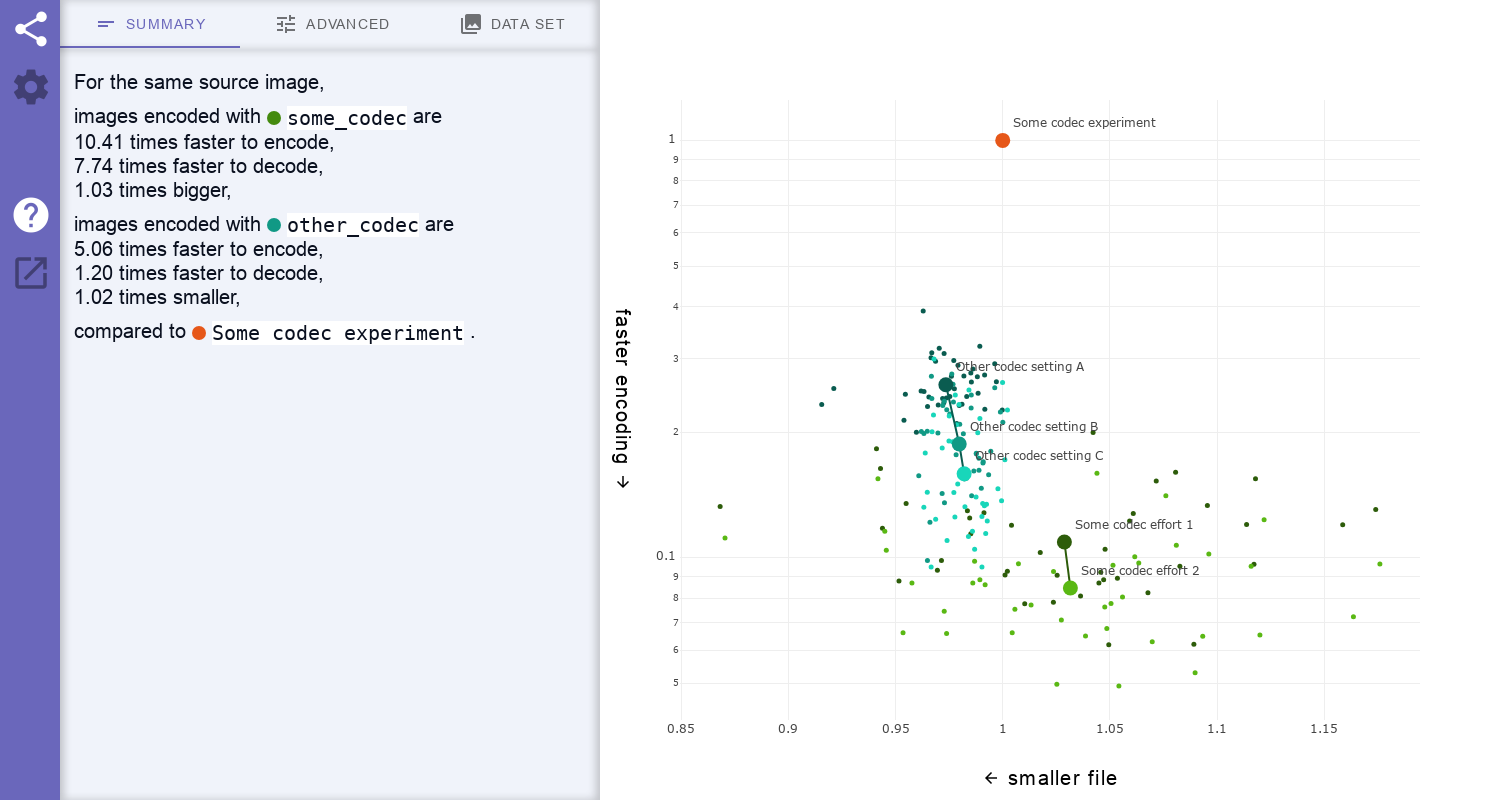
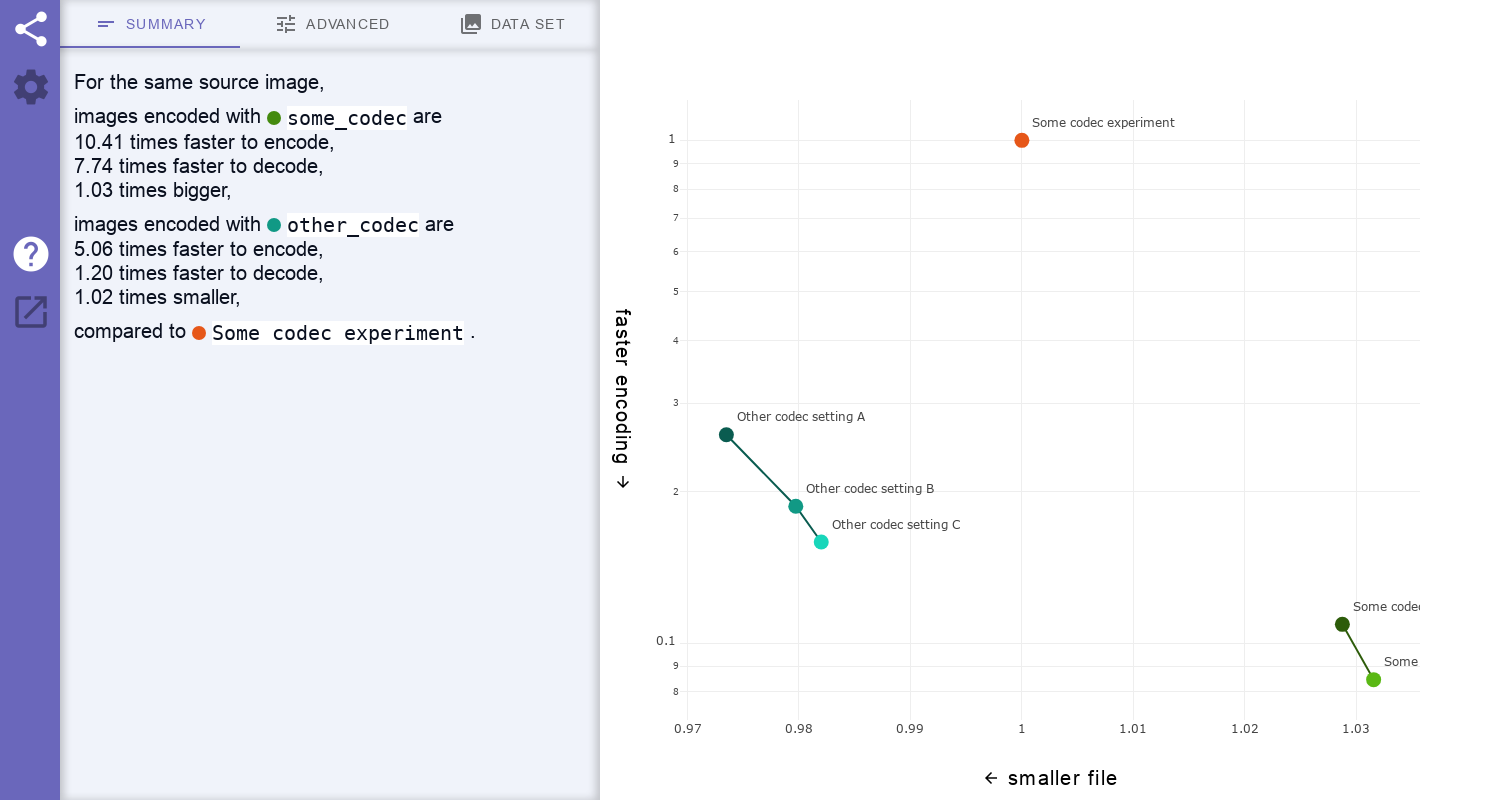
Codec-Compare version 0.2.3 (#13)

diff --git a/src/settings_ui.ts b/src/settings_ui.ts
@@ -21,7 +21,7 @@ import './filters_ui';
 import {css, html, LitElement} from 'lit';
 import {customElement, property} from 'lit/decorators.js';
 
-import {dispatch, EventType} from './events';
+import {dispatch, EventType, listen} from './events';
 import {State} from './state';
 
 /** Pop-up settings menu. */
@@ -29,31 +29,62 @@ import {State} from './state';
 export class SettingsUi extends LitElement {
   @property({attribute: false}) state!: State;
 
+  override firstUpdated() {
+    listen(EventType.SETTINGS_CHANGED, () => {
+      this.requestUpdate();
+    });
+  }
+
   override render() {
     if (!this.state) return html``;
+    const slownessWarning = 'warning: may cause graphical interface slowness';
 
     return html`
         <div class="settingGroup">
-          <span>Hide data points</span>
+          <span title="Hide the matched pairs in the graph">
+            Hide data points
+          </span>
           <mwc-switch ?selected=${this.state.showEachMatch}
             @click=${() => {
       this.state.showEachMatch = !this.state.showEachMatch;
       dispatch(EventType.MATCHER_OR_METRIC_CHANGED);
-      this.requestUpdate();
+      dispatch(EventType.SETTINGS_CHANGED);
     }}>
           </mwc-switch>
-          <span>Show data points</span>
+          <span title="Show each matched pair as a small dot in the graph (${
+        slownessWarning})">
+            Show data points
+          </span>
         </div>
         <div class="settingGroup">
-          <span>Arithmetic mean</span>
+          <span title="Aggregate the metrics using the arithmetic mean of the values of the matched data points">
+            Arithmetic mean
+          </span>
           <mwc-switch ?selected=${this.state.useGeometricMean}
             @click=${() => {
       this.state.useGeometricMean = !this.state.useGeometricMean;
       dispatch(EventType.MATCHER_OR_METRIC_CHANGED);
-      this.requestUpdate();
+      dispatch(EventType.SETTINGS_CHANGED);
     }}>
           </mwc-switch>
-          <span>Geometric mean</span>
+          <span title="Aggregate the metrics using the geometric mean of the ratios of the matched pairs">
+            Geometric mean
+          </span>
+        </div>
+        <div class="settingGroup">
+          <span title="Only display the first rows of the filtered or matched data point tables">
+            Show some rows
+          </span>
+          <mwc-switch ?selected=${this.state.showAllRows}
+            @click=${() => {
+      this.state.showAllRows = !this.state.showAllRows;
+      dispatch(EventType.SETTINGS_CHANGED);
+    }}>
+          </mwc-switch>
+          <span title="Display all rows of the filtered or matched data point tables (${
+        slownessWarning})">
+            Show all rows
+          </span>
         </div>`;
   }
 

diff --git a/src/matches_table_ui.ts b/src/matches_table_ui.ts
@@ -69,7 +69,8 @@ export class MatchesTableUi extends LitElement {
     const cssClass = isNumber ? 'numberCell' : '';
 
     if (isNumber && selectionField.id !== FieldId.WIDTH &&
-        selectionField.id !== FieldId.HEIGHT) {
+        selectionField.id !== FieldId.HEIGHT &&
+        selectionField.id !== FieldId.FRAME_COUNT) {
       const ratio =
           getRatio(selectionValue as number, referenceValue as number);
       return html`<td class="${cssClass}">${getRelativePercent(ratio)}</td>`;
@@ -202,6 +203,23 @@ export class MatchesTableUi extends LitElement {
 
     const numColumns =
         matchers.length + metrics.length + selectionSharedFieldIndices.length;
+    let rows = this.batchSelection.matchedDataPoints.rows;
+    let truncatedRows = html``;
+    if (!this.state.showAllRows && rows.length > 100) {
+      const onDisplayHiddenRow = () => {
+        this.state.showAllRows = true;
+        dispatch(EventType.SETTINGS_CHANGED);
+        this.requestUpdate();
+      };
+      truncatedRows = html`
+        <tr>
+          <td @click=${onDisplayHiddenRow}
+              colspan=${numColumns} class="hiddenRow">
+            ${rows.length - 100} hidden rows. Click to expand.
+          </td>
+        </tr>`;
+      rows = rows.slice(0, 100);
+    }
 
     return html`
       <table>
@@ -209,7 +227,8 @@ export class MatchesTableUi extends LitElement {
         this.renderFirstHeaderRow(
             reference, matchers, metrics, referenceSharedFieldIndices)}
         ${this.renderSecondHeaderRow(reference, matchers, metrics)}
-        ${this.batchSelection.matchedDataPoints.rows.map(renderRow)}
+        ${rows.map(renderRow)}
+        ${truncatedRows}
 
         <tr>
           <th colspan=${numColumns}>Arithmetic means</th>
@@ -288,6 +307,14 @@ export class MatchesTableUi extends LitElement {
     }
     .matchRow:hover {
       background: var(--mdc-theme-surface);
+      cursor: pointer;
+    }
+    .hiddenRow {
+      color: grey;
+      font-style: italic;
+      text-align: center;
+    }
+    .hiddenRow:hover {
       cursor: pointer;
     }
 

diff --git a/src/filtered_images_ui.ts b/src/filtered_images_ui.ts
@@ -21,6 +21,7 @@ import {customElement, property} from 'lit/decorators.js';
 
 import {BatchSelection} from './batch_selection';
 import {Entry} from './entry';
+import {dispatch, EventType} from './events';
 import {State} from './state';
 
 /** Component displaying filtered images in a table. */
@@ -44,6 +45,24 @@ export class FilteredImagesUi extends LitElement {
 
   override render() {
     const batch = this.batchSelection.batch;
+    let rows = batch.rows;
+    let truncatedRows = html``;
+    if (!this.state.showAllRows && rows.length > 100) {
+      const onDisplayHiddenRow = () => {
+        this.state.showAllRows = true;
+        dispatch(EventType.SETTINGS_CHANGED);
+        this.requestUpdate();
+      };
+      truncatedRows = html`
+        <tr>
+          <td @click=${onDisplayHiddenRow}
+              colspan=${batch.fields.length} class="hiddenRow">
+            ${rows.length - 100} hidden rows. Click to expand.
+          </td>
+        </tr>`;
+      rows = rows.slice(0, 100);
+    }
+
     return html`
         <div class="horizontalFlex">
           <div id="imageChip">
@@ -71,7 +90,8 @@ export class FilteredImagesUi extends LitElement {
             (field) => html`<th title="${field.description}">${
                 field.displayName}</th>`)}
             </tr>
-            ${batch.rows.map((row, rowIndex) => this.renderRow(row, rowIndex))}
+            ${rows.map((row, rowIndex) => this.renderRow(row, rowIndex))}
+            ${truncatedRows}
           </table>
         </div>`;
   }
@@ -149,6 +169,15 @@ export class FilteredImagesUi extends LitElement {
     }
     .excluded {
       color: grey;
+    }
+
+    .hiddenRow {
+      color: grey;
+      font-style: italic;
+      text-align: center;
+    }
+    .hiddenRow:hover {
+      cursor: pointer;
     }
 
     a {

diff --git a/src/state.ts b/src/state.ts
@@ -59,6 +59,9 @@ export class State {
    */
   useGeometricMean = true;
 
+  /** If true, each row is shown in the tables. NOT stored in URL params. */
+  showAllRows = false;
+
   /** Sets all other fields up based on the contents of the batches field. */
   initialize() {
     if (this.batches.length === 0) return;
@@ -113,13 +116,17 @@ export class State {
     [this.plotMetricHorizontal, this.plotMetricVertical] =
         selectPlotMetrics(this.batches[0], this.metrics);
 
-    // It would be better to count the matches rather than the data points but
-    // it is more important to have a default setting value right now, before
-    // reading the URL arguments, which happens before finding the matches.
-    const numDataPoints =
-        this.batches.reduce((n, batch) => n + batch.rows.length, 0);
-    if (numDataPoints > 50000) {
-      this.showEachMatch = false;  // Avoids plot sluggishness by default.
+    if (this.batches.length > 2) {
+      this.showEachMatch = false;  // Avoids visual confusion.
+    } else {
+      // It would be better to count the matches rather than the data points but
+      // it is more important to have a default setting value right now, before
+      // reading the URL arguments, which happens before finding the matches.
+      const numDataPoints =
+          this.batches.reduce((n, batch) => n + batch.rows.length, 0);
+      if (numDataPoints > 50000) {
+        this.showEachMatch = false;  // Avoids plot sluggishness by default.
+      }
     }
 
     const computeMatchesAndStats = (batchSelection: BatchSelection) => {

diff --git a/src/filter.ts b/src/filter.ts
@@ -36,7 +36,7 @@ export class FieldFilter {
   }
 }
 
-/** Arbitrarily enables some filters (focusing on lossy image comparison). */
+/** Arbitrarily enables some filters. */
 export function enableDefaultFilters(batch: Batch, filters: FieldFilter[]) {
   // Pick the highest (usually meaning slowest) effort for best compression
   // results.
@@ -48,21 +48,6 @@ export function enableDefaultFilters(batch: Batch, filters: FieldFilter[]) {
       const effortFilter = filters[effortIndex];
       effortFilter.enabled = true;
       effortFilter.rangeStart = effortFilter.rangeEnd;
-    }
-  }
-
-  // Restrict JPEG XL to a "reasonable" encoder quality setting range.
-  if (batch.codec.toLowerCase() === 'jxl' ||
-      batch.codec.toLowerCase() === 'jpegxl') {
-    const qualityIndex =
-        batch.fields.findIndex((field: Field) => field.id === FieldId.QUALITY);
-    if (qualityIndex !== -1) {
-      const qualityField = batch.fields[qualityIndex];
-      if (qualityField.isInteger && qualityField.uniqueValuesArray.length > 1) {
-        filters[qualityIndex].enabled = true;
-        filters[qualityIndex].rangeStart =
-            Math.max(filters[qualityIndex].rangeStart, 75);
-      }
     }
   }
 }

diff --git a/src/entry_loader.ts b/src/entry_loader.ts
@@ -210,6 +210,8 @@ function jsonToBatch(
         batch.fields.findIndex(field => field.id === FieldId.WIDTH);
     const heightFieldIndex =
         batch.fields.findIndex(field => field.id === FieldId.HEIGHT);
+    const frameCountFieldIndex =
+        batch.fields.findIndex(field => field.id === FieldId.FRAME_COUNT);
     const encodedSizeFieldIndex =
         batch.fields.findIndex(field => field.id === FieldId.ENCODED_SIZE);
     if (widthFieldIndex !== -1 && heightFieldIndex !== -1 &&
@@ -222,9 +224,13 @@ function jsonToBatch(
       batch.fields.push(field);
       uniqueValuesSets.push(new Set<string>());
       for (const row of batch.rows) {
-        const bpp = (row[encodedSizeFieldIndex] as number) * 8 /
+        let bpp = (row[encodedSizeFieldIndex] as number) * 8 /
             ((row[widthFieldIndex] as number) *
              (row[heightFieldIndex] as number));
+        if (frameCountFieldIndex !== -1 &&
+            batch.fields[frameCountFieldIndex].isInteger) {
+          bpp /= (row[frameCountFieldIndex] as number);
+        }
         row.push(bpp);
         field.addValue(String(bpp), uniqueValuesSets[fieldIndex]);
       }

diff --git a/src/gallery_ui.ts b/src/gallery_ui.ts
@@ -65,7 +65,8 @@ export class GalleryUi extends LitElement {
       if (asset.sourcePath !== undefined) {
         // Use a link to open the image in a new tab.
         return html`
-          <a href="${asset.sourcePath}" target="_blank" title="${title}">
+          <a href="${asset.sourcePath}" target="_blank" title="${title}"
+            class="${asset.count == 0 ? 'unused' : ''}">
             <img src="${asset.previewPath}" class="constrainedSize"
               alt="${asset.sourceName}">
             <span class="countBubble">${asset.count}</span>
@@ -192,6 +193,10 @@ export class GalleryUi extends LitElement {
     .linkOverlay > mwc-icon {
       color: var(--mdc-theme-background);
       font-size: 16px;
+    }
+
+    .unused {
+      opacity: 0.2;
     }
 
     .countBubble {

diff --git a/src/entry.ts b/src/entry.ts
@@ -36,6 +36,7 @@ export enum FieldId {
   DECODED_IMAGE_NAME,
   WIDTH,                   // Number of pixel columns in SOURCE_IMAGE_NAME.
   HEIGHT,                  // Number of pixel rows in SOURCE_IMAGE_NAME.
+  FRAME_COUNT,             // Number of frames in SOURCE_IMAGE_NAME.
   EFFORT,                  // Encoding setting.
   QUALITY,                 // Encoding setting.
   PSNR,                    // Difference between original and decoded images.
@@ -93,6 +94,7 @@ const NAME_TO_FIELD_ID = new Map<string, FieldId>([
   ['decoded image name', FieldId.DECODED_IMAGE_NAME],
   ['width', FieldId.WIDTH],
   ['height', FieldId.HEIGHT],
+  ['frame count', FieldId.FRAME_COUNT],
   ['effort', FieldId.EFFORT],
   ['quality', FieldId.QUALITY],
   ['psnr', FieldId.PSNR],

diff --git a/src/matcher.ts b/src/matcher.ts
@@ -100,6 +100,7 @@ export function createMatchers(batches: Batch[]): FieldMatcher[] {
     if (field.id === FieldId.DECODED_IMAGE_NAME) continue;
     // Same source image, so these will always match. Remove them from the UI.
     if (field.id === FieldId.WIDTH || field.id === FieldId.HEIGHT) continue;
+    if (field.id === FieldId.FRAME_COUNT) continue;
     // If bpp values are available, encoded sizes probably are too.
     // Skip the former which brings nothing as a matcher over the latter.
     if (field.id === FieldId.ENCODED_BITS_PER_PIXEL) continue;

diff --git a/src/metric.ts b/src/metric.ts
@@ -80,6 +80,7 @@ export function createMetrics(batches: Batch[]): FieldMetric[] {
     if (!isNumber) continue;
     // Same source image, so same source image features. No need to compare.
     if (field.id === FieldId.WIDTH || field.id === FieldId.HEIGHT) continue;
+    if (field.id === FieldId.FRAME_COUNT) continue;
     // Encoder settings should not be compared.
     if (field.id === FieldId.EFFORT || field.id === FieldId.QUALITY) continue;
     // If bpp values are available, encoded sizes probably are too.

diff --git a/src/events.ts b/src/events.ts
@@ -45,6 +45,9 @@ export enum EventType {
 
   // The state changed and the UI needs to reflect them.
   MATCHED_DATA_POINTS_CHANGED = 'MATCHED_DATA_POINTS_CHANGED',
+
+  // Some setting was toggled.
+  SETTINGS_CHANGED = 'SETTINGS_CHANGED',
 }
 
 /**
@@ -63,6 +66,7 @@ declare global {
     REFERENCE_CHANGED: Event;
     MATCHER_OR_METRIC_CHANGED: Event;
     MATCHED_DATA_POINTS_CHANGED: Event;
+    SETTINGS_CHANGED: Event;
   }
 }
 

diff --git a/src/codec_compare.ts b/src/codec_compare.ts
@@ -207,7 +207,7 @@ export class CodecCompare extends LitElement {
           </p>
 
           <p id="credits">
-            Codec Compare beta version 0.2.2<br>
+            Codec Compare beta version 0.2.3<br>
             <a href="https://github.com/webmproject/codec-compare">
               Sources on GitHub
             </a>
